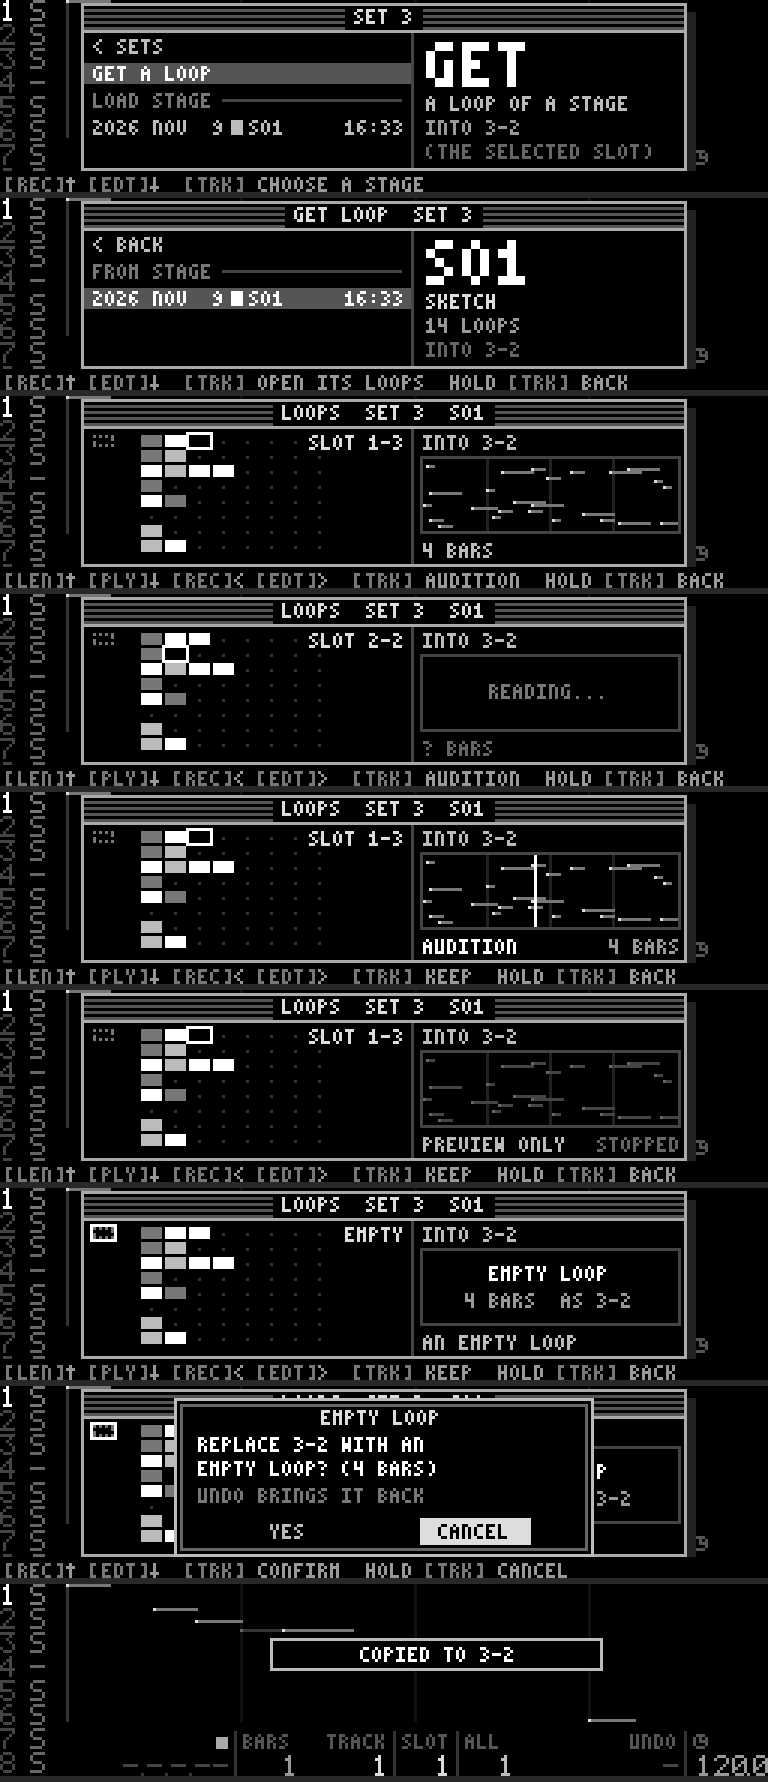
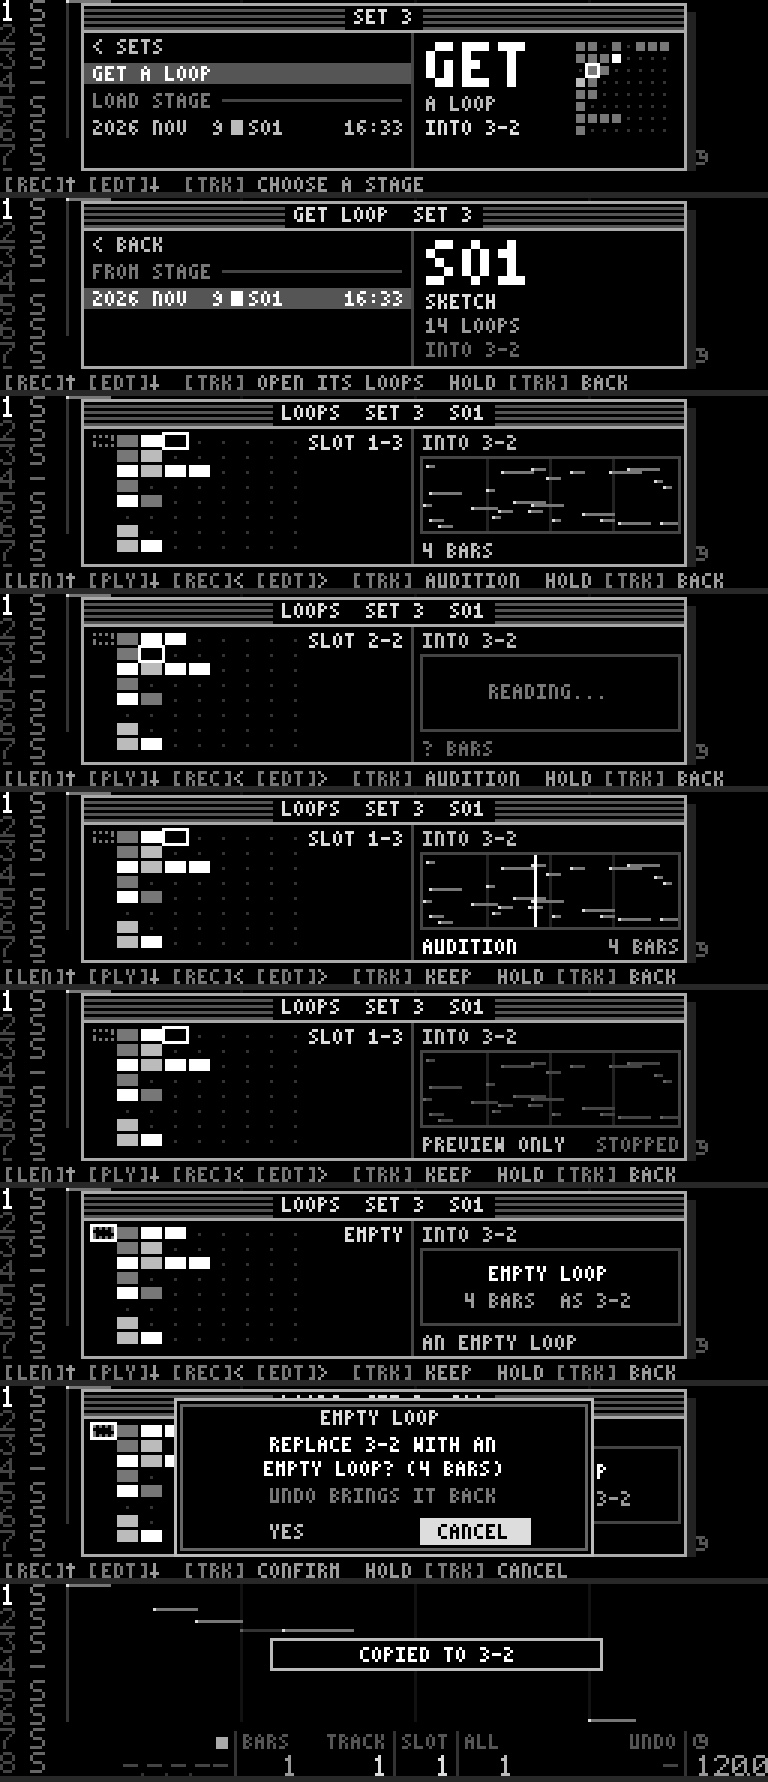
docs(plan): get a loop mockups — grid left with EMPTY at the cells' spacing, centred confirmation, mosaic on the entry

diff --git a/docs/Plans/engine_sets_browser_proposal.md b/docs/Plans/engine_sets_browser_proposal.md
@@ -150,7 +150,8 @@ The engine half is built (DEC-270: read one slot of a stage for another slot, pl
 half:
 
 * **Two ways in, one grid** (owner 2026-11-10, after the mockups). (1) From the sets browser: a `GET A LOOP` row under
-  `< SETS` in a set's view (no controller needed), destination = the selected slot; TRACK lists the set's stages under
+  `< SETS` in a set's view (no controller needed), destination = the selected slot (its panel: `GET A LOOP INTO 3-2`
+  and the working set's mosaic with that slot boxed); TRACK lists the set's stages under
   `FROM STAGE`, and TRACK on one opens its grid. (2) From a slot on a controller: the slot's long press opens the same
   window with that slot as the destination — the cursor on `EMPTY LOOP` when the slot is empty, on the slot's own
   position when it holds a loop. This replaces the long press's empty loop (owner 2026-11-08): an empty loop is now the
@@ -163,11 +164,11 @@ half:
   the transport; a press of it stops everything and cancels the audition). Cells are 7 × 4 px (8 tracks in the
   window's height; owner: to be judged on the device), the cursor a hollow bright box; the cursor's slot reads `SLOT
   1-3` against the divider, so it reads on into the panel's `INTO 3-2`; the title names the source stage (`LOOPS  SET 3
-  S01`). An `EMPTY LOOP` tile comes first — one cell the size of the others, a column of its own on the top row, dotted
-  unlike an empty source cell: taking it makes the destination an empty loop of the destination's length when it has one, else the
+  S01`). An `EMPTY LOOP` tile comes first — one cell the size of the others, left of slot 1 on the top row at the
+  cells' own spacing, dotted unlike an empty source cell: taking it makes the destination an empty loop of the destination's length when it has one, else the
   new-empty-loop length — shown before KEEP (one undo step). The cursor starts on `EMPTY LOOP` only when the
   destination is empty; otherwise on the grid cell of the destination's own track and slot, and an empty loop kept
-  over a filled destination asks once more (`REPLACE 3-2 WITH AN EMPTY LOOP?`), so two reflex presses never wipe a
+  over a filled destination asks once more (`REPLACE 3-2 WITH AN EMPTY LOOP?`, centred), so two reflex presses never wipe a
   loop.
 * **The panel** shows the loop under the cursor: its piano roll, length and bars (in ticks: the stage's tempo is not
   applied, the loop plays at the current tempo), after a short `READING…` state. A read starts only once the cursor
